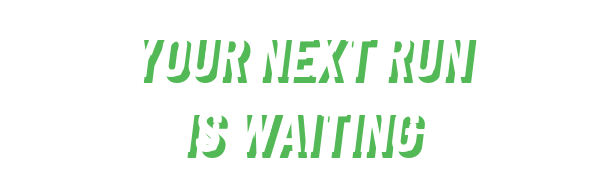
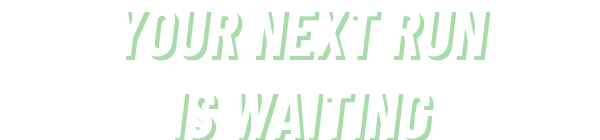
Email: shorter hero + bigger text, TRUST THE RUN closing image

Changed region(s): [[0.21, 0.0857, 0.84, 0.4857], [0.27, 0.6286, 0.75, 1.0]]

diff --git a/rundot/emails/reactivation.html b/rundot/emails/reactivation.html
@@ -63,28 +63,28 @@
           </tr>
         </table>
 
-        <!-- 2. Hero Image with overlay -->
+        <!-- 2. Hero Image with overlay - shorter, bigger text -->
         <table role="presentation" width="600" cellpadding="0" cellspacing="0" border="0" class="email-container" style="width:600px; max-width:600px;">
           <tr>
             <td style="padding:0;">
               <div style="position:relative; width:100%; max-width:600px;">
-                <img src="https://bradleyparnell.github.io/predictive-fitness/rundot/assets/runner-urban-sprint.jpg" width="600" alt="Runner sprinting through the city" style="display:block; width:100%; max-width:600px; height:auto;">
-                <div style="position:absolute; top:0; left:0; width:100%; height:100%; background:linear-gradient(180deg, rgba(10,10,10,0.3) 0%, rgba(10,10,10,0.6) 100%);">
-                  <div style="position:absolute; top:0; left:0; width:100%; height:100%; background-image:url('https://bradleyparnell.github.io/predictive-fitness/rundot/assets/dot-pattern-tile.png'); background-repeat:repeat; opacity:0.25;"></div>
+                <img src="https://bradleyparnell.github.io/predictive-fitness/rundot/assets/email-hero-runner.png" width="600" alt="Runner sprinting through the city" style="display:block; width:100%; max-width:600px; height:auto;">
+                <div style="position:absolute; top:0; left:0; width:100%; height:100%; background:linear-gradient(180deg, rgba(10,10,10,0.2) 0%, rgba(10,10,10,0.55) 100%);">
+                  <div style="position:absolute; top:0; left:0; width:100%; height:100%; background-image:url('https://bradleyparnell.github.io/predictive-fitness/rundot/assets/dot-pattern-tile.png'); background-repeat:repeat; opacity:0.2;"></div>
                 </div>
                 <!--[if !mso]><!-->
                 <div style="position:absolute; top:0; left:0; width:100%; height:100%; display:table;">
-                  <div style="display:table-cell; vertical-align:middle; text-align:center; padding:0 40px;">
-                    <img src="https://bradleyparnell.github.io/predictive-fitness/rundot/assets/email-hero-headline.png" width="440" alt="YOUR NEXT RUN IS WAITING" style="display:block; margin:0 auto; width:440px; max-width:90%; height:auto;">
+                  <div style="display:table-cell; vertical-align:middle; text-align:center; padding:0 24px;">
+                    <img src="https://bradleyparnell.github.io/predictive-fitness/rundot/assets/email-hero-headline.png" width="520" alt="YOUR NEXT RUN IS WAITING" style="display:block; margin:0 auto; width:520px; max-width:95%; height:auto;">
                   </div>
                 </div>
                 <!--<![endif]-->
               </div>
               <!--[if mso]>
-              <table role="presentation" width="600" cellpadding="0" cellspacing="0" border="0" style="width:600px; margin-top:-360px;">
+              <table role="presentation" width="600" cellpadding="0" cellspacing="0" border="0" style="width:600px; margin-top:-300px;">
                 <tr>
-                  <td align="center" valign="middle" style="height:360px; padding:0 40px;">
-                    <p style="margin:0; font-family:Arial, Helvetica, sans-serif; font-size:32px; line-height:40px; color:#ffffff; font-weight:bold;">YOUR NEXT RUN IS WAITING</p>
+                  <td align="center" valign="middle" style="height:300px; padding:0 30px;">
+                    <p style="margin:0; font-family:Arial, Helvetica, sans-serif; font-size:36px; line-height:44px; color:#ffffff; font-weight:bold;">YOUR NEXT RUN IS WAITING</p>
                   </td>
                 </tr>
               </table>
@@ -169,16 +169,11 @@
           </tr>
         </table>
 
-        <!-- 5. Runner Photo Strip -->
+        <!-- 5. Runner Photo Strip with "TRUST THE RUN." -->
         <table role="presentation" width="600" cellpadding="0" cellspacing="0" border="0" class="email-container" style="width:600px; max-width:600px;">
           <tr>
             <td style="padding:0;">
-              <div style="position:relative; width:100%; max-width:600px;">
-                <img src="https://bradleyparnell.github.io/predictive-fitness/rundot/assets/runner-finish-celebration.jpg" width="600" alt="Runner celebrating at the finish line" style="display:block; width:100%; max-width:600px; height:auto;">
-                <div style="position:absolute; top:0; left:0; width:100%; height:100%; background:linear-gradient(180deg, rgba(10,10,10,0.3) 0%, rgba(10,10,10,0.6) 100%);">
-                  <div style="position:absolute; top:0; left:0; width:100%; height:100%; background-image:url('https://bradleyparnell.github.io/predictive-fitness/rundot/assets/dot-pattern-tile.png'); background-repeat:repeat; opacity:0.25;"></div>
-                </div>
-              </div>
+              <img src="https://bradleyparnell.github.io/predictive-fitness/rundot/assets/email-closing-runner.png" width="600" alt="Trust the run." style="display:block; width:100%; max-width:600px; height:auto;">
             </td>
           </tr>
         </table>
